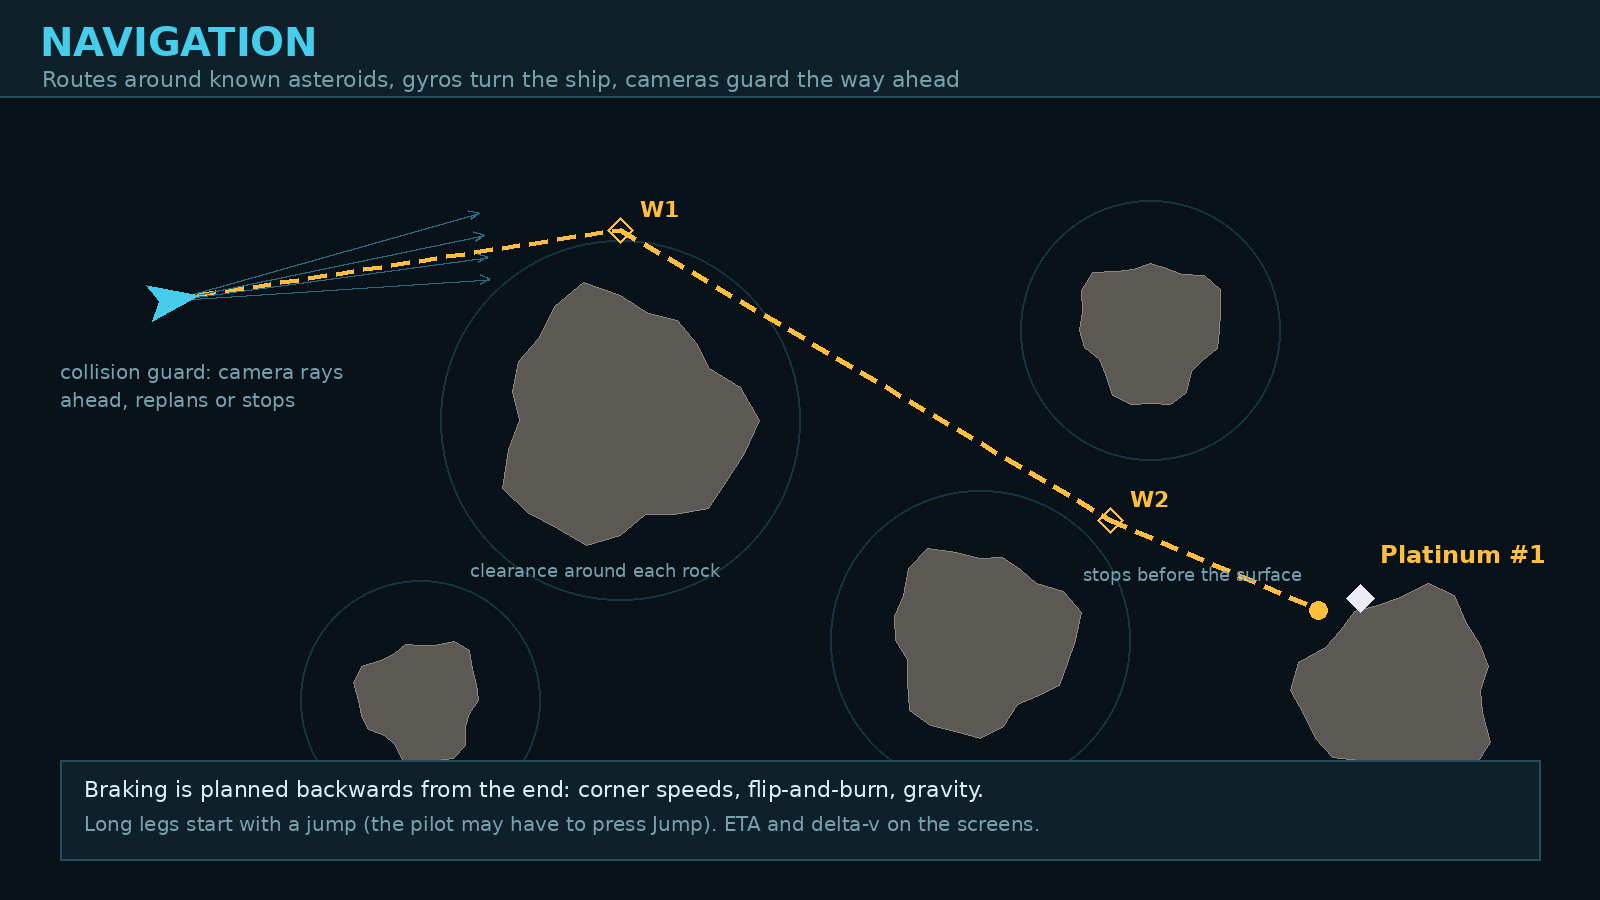
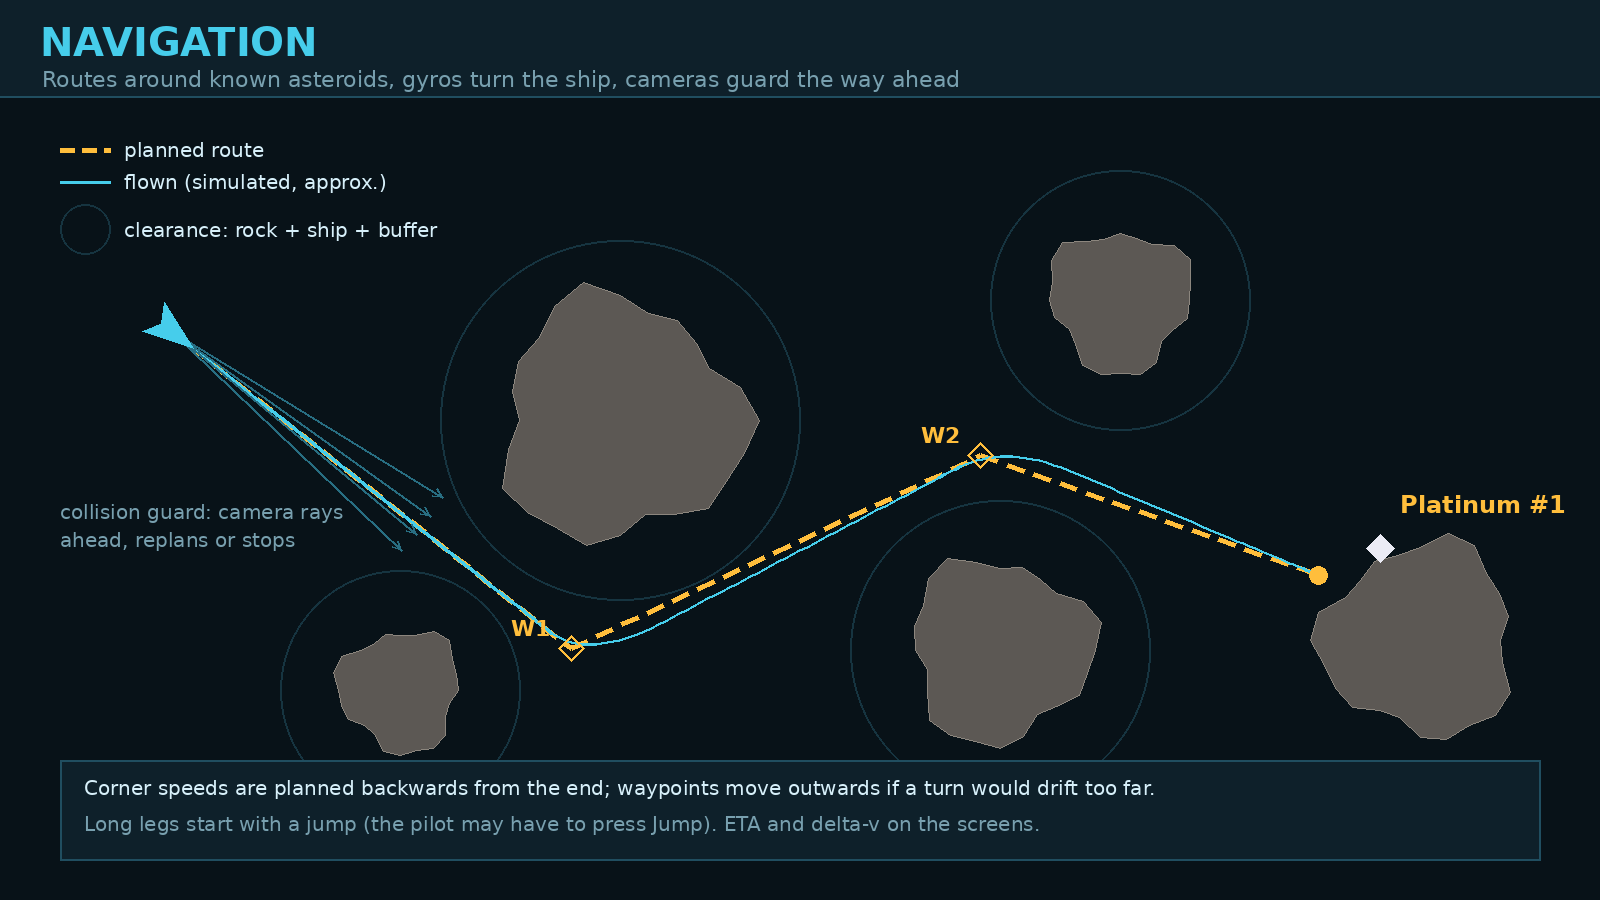
Workshop: route diagram computed with the planner
The planned route in route.png was drawn by hand and its second leg cut an
asteroid's clearance, which the planner never allows. The route is now
computed with a 2D copy of the planner (split legs at detour points until no
clearance is cut), and a simple simulation adds the approximately flown line.

Claude-Session: https://claude.ai/code/session_015uX8FGzPoM4tSbL5yWywWf

diff --git a/workshop/diagrams.py b/workshop/diagrams.py
@@ -124,42 +124,145 @@ def accel():
     img.save(os.path.join(OUT, "accel.png"))
 
 
+# 2D copy of the script's planner (Navigation.cs: PlanSegment, BlockingObstacle,
+# DetourPoint): a leg that cuts an obstacle's clearance is split at a point
+# DetourFactor x clearance beside the obstacle, and both halves are checked again.
+DETOUR_FACTOR = 1.3
+
+
+def seg_distance(c, a, b):
+    ax, ay = b[0] - a[0], b[1] - a[1]
+    t = max(0.0, min(1.0, ((c[0] - a[0]) * ax + (c[1] - a[1]) * ay) / (ax * ax + ay * ay)))
+    return math.dist(c, (a[0] + ax * t, a[1] + ay * t)), t
+
+
+def blocking(obstacles, a, b, skip_a, skip_b):
+    first, best = None, 1e18
+    for c, clearance in obstacles:
+        if skip_a and math.dist(a, c) < clearance or skip_b and math.dist(b, c) < clearance:
+            continue
+        if seg_distance(c, a, b)[0] >= clearance:
+            continue
+        if math.dist(a, c) < best:
+            first, best = (c, clearance), math.dist(a, c)
+    return first
+
+
+def detour_point(obstacles, o, a, b):
+    c, clearance = o
+    _, t = seg_distance(c, a, b)
+    px, py = a[0] + (b[0] - a[0]) * t - c[0], a[1] + (b[1] - a[1]) * t - c[1]
+    n = math.hypot(px, py) or 1
+    ox, oy = px / n, py / n
+    scale = DETOUR_FACTOR
+    while scale < DETOUR_FACTOR * 3:
+        for sx in (1, -1):         # in 2D: the side the path passes, then the other
+            q = (c[0] + sx * ox * clearance * scale, c[1] + sx * oy * clearance * scale)
+            if all(math.dist(q, c2) >= r2 for c2, r2 in obstacles):
+                return q
+        scale *= 1.6
+    return (c[0] + ox * clearance * DETOUR_FACTOR, c[1] + oy * clearance * DETOUR_FACTOR)
+
+
+def plan(obstacles, a, b, route, depth=0, at_start=True, at_target=True):
+    o = blocking(obstacles, a, b, at_start, at_target)
+    if o is None or depth >= 6:
+        return
+    q = detour_point(obstacles, o, a, b)
+    plan(obstacles, a, q, route, depth + 1, at_start, False)
+    route.append(q)
+    plan(obstacles, q, b, route, depth + 1, False, at_target)
+
+
+def fly(points, vmax=8.0, accel=0.35):
+    """Rough point-mass flight. Corner speeds are planned backwards from the end
+    (like PlanCornerSpeeds, turn factor cos^2); a waypoint counts as reached
+    within 25 px or after crossing the bisector plane (like WaypointReached)."""
+    n = len(points)
+    corner = [0.0] * n
+    for k in range(n - 2, 0, -1):
+        a, w, b = points[k - 1], points[k], points[k + 1]
+        u = (w[0] - a[0], w[1] - a[1])
+        v = (b[0] - w[0], b[1] - w[1])
+        cos = (u[0] * v[0] + u[1] * v[1]) / (math.hypot(*u) * math.hypot(*v))
+        corner[k] = min(vmax * max(0.1, cos) ** 2, math.sqrt(corner[k + 1] ** 2 + 2 * accel * math.dist(w, b)))
+    pos, vel, i, track = list(points[0]), [0.0, 0.0], 1, []
+    for _ in range(40000):
+        track.append(tuple(pos))
+        target = points[i]
+        if i < n - 1:
+            a, b = points[i - 1], points[i + 1]
+            ux, uy = target[0] - a[0], target[1] - a[1]
+            vx, vy = b[0] - target[0], b[1] - target[1]
+            nu, nv = math.hypot(ux, uy), math.hypot(vx, vy)
+            bis = (ux / nu + vx / nv, uy / nu + vy / nv)
+            if math.dist(pos, target) < 25 or (pos[0] - target[0]) * bis[0] + (pos[1] - target[1]) * bis[1] > 0:
+                i += 1
+                continue
+        dist = math.dist(pos, target)
+        if i == n - 1 and dist < 1 and math.hypot(*vel) < 0.2:
+            break
+        speed = min(vmax, math.sqrt(corner[i] ** 2 + 2 * accel * 0.8 * dist))
+        dn = dist or 1
+        want = ((target[0] - pos[0]) / dn * speed, (target[1] - pos[1]) / dn * speed)
+        ex, ey = want[0] - vel[0], want[1] - vel[1]
+        en = math.hypot(ex, ey)
+        if en > accel:
+            ex, ey = ex / en * accel, ey / en * accel
+        vel = [vel[0] + ex, vel[1] + ey]
+        pos = [pos[0] + vel[0], pos[1] + vel[1]]
+    return track
+
+
 def route():
     img, d = canvas("NAVIGATION", "Routes around known asteroids, gyros turn the ship, cameras guard the way ahead")
-    rocks = [((620, 420), 120, 1), ((980, 640), 90, 2), ((1150, 330), 70, 3), ((420, 700), 60, 4)]
+    rocks = [((620, 420), 120, 1), ((1000, 650), 90, 2), ((1120, 300), 70, 3), ((400, 690), 60, 4)]
+    obstacles = []
     for (cx, cy), r, s in rocks:
-        margin = r + 60
-        d.ellipse([cx - margin, cy - margin, cx + margin, cy + margin], outline=FAINT, width=2)
+        clearance = r + 60
+        obstacles.append(((cx, cy), clearance))
+        d.ellipse([cx - clearance, cy - clearance, cx + clearance, cy + clearance], outline=FAINT, width=2)
         rock(d, cx, cy, r, s)
     # target asteroid with deposit
-    tx, ty, tr = 1400, 690, 95
+    tx, ty, tr = 1420, 640, 95
     rock(d, tx, ty, tr, 5)
     d.polygon([(tx - 40, ty - 106), (tx - 26, ty - 92), (tx - 40, ty - 78), (tx - 54, ty - 92)], fill=(235, 235, 245))
     label(d, tx - 20, ty - 150, "Platinum #1", ROUTE, 24, True)
-    start = (170, 300)
-    w1 = (620, 230)
-    w2 = (1110, 520)
-    stop = (1318, 610)
-    pts = [start, w1, w2, stop]
+    start = (170, 330)
+    stop = (1318, 575)
+    obstacles.append(((tx, ty), tr + 60))
+    waypoints = []
+    plan(obstacles, start, stop, waypoints)
+    pts = [start] + waypoints + [stop]
     for a, b in zip(pts, pts[1:]):
         dashed(d, a, b, ROUTE, 5, 18, 10)
-    for i, (wx, wy) in enumerate((w1, w2)):
+    track = fly(pts)
+    d.line(track, fill=CYAN, width=3)
+    for i, (wx, wy) in enumerate(waypoints):
         d.polygon([(wx, wy - 13), (wx + 13, wy), (wx, wy + 13), (wx - 13, wy)], outline=ROUTE, width=3)
-        label(d, wx + 20, wy - 34, "W%d" % (i + 1), ROUTE, 22, True)
+        label(d, wx - 20, wy - 34, "W%d" % (i + 1), ROUTE, 22, True, "ra")
     d.ellipse([stop[0] - 9, stop[1] - 9, stop[0] + 9, stop[1] + 9], fill=ROUTE)
-    label(d, stop[0] - 16, stop[1] - 46, "stops before the surface", DIM, 18, anchor="ra")
-    ang = math.atan2(w1[1] - start[1], w1[0] - start[0])
+    ang = math.atan2(pts[1][1] - start[1], pts[1][0] - start[0])
     # guard rays
     for k in (-0.12, -0.05, 0.02, 0.09):
         a2 = ang + k
         arrow(d, start, (start[0] + 320 * math.cos(a2), start[1] + 320 * math.sin(a2)), (40, 110, 130), 2, 10)
     ship(d, start[0], start[1], ang, 30)
-    label(d, 60, 360, "collision guard: camera rays", DIM, 20)
-    label(d, 60, 388, "ahead, replans or stops", DIM, 20)
-    label(d, 470, 560, "clearance around each rock", DIM, 18)
+    lx, ly = 1120, 470
+    for i, (col, dash, text) in enumerate(((ROUTE, True, "planned route"), (CYAN, False, "flown (simulated, approx.)"))):
+        yy = 150 + i * 32
+        if dash:
+            dashed(d, (60, yy), (110, yy), col, 5, 14, 8)
+        else:
+            d.line([(60, yy), (110, yy)], fill=col, width=3)
+        label(d, 124, yy - 12, text, TEXT, 20)
+    d.ellipse([60, 204, 110, 254], outline=FAINT, width=2)
+    label(d, 124, 218, "clearance: rock + ship + buffer", TEXT, 20)
+    label(d, 60, 500, "collision guard: camera rays", DIM, 20)
+    label(d, 60, 528, "ahead, replans or stops", DIM, 20)
     box = [60, 760, 1540, 860]
     d.rectangle(box, fill=PANEL, outline=GRID, width=2)
-    label(d, 84, 776, "Braking is planned backwards from the end: corner speeds, flip-and-burn, gravity.", TEXT, 22)
+    label(d, 84, 776, "Corner speeds are planned backwards from the end; waypoints move outwards if a turn would drift too far.", TEXT, 20)
     label(d, 84, 812, "Long legs start with a jump (the pilot may have to press Jump). ETA and delta-v on the screens.", DIM, 20)
     img.save(os.path.join(OUT, "route.png"))
 

diff --git a/workshop/README.md b/workshop/README.md
@@ -10,6 +10,9 @@ Material for the Steam Workshop items.
   - `map.png` (map screens) and `status.png` (status page) are mock-ups of the
     script's screens; the in-game look differs in details.
   - `accel.png`, `route.png`, `docking.png`, `planet.png` are explanatory diagrams.
+    `route.png` is computed: a 2D copy of the script's route planner places the
+    waypoints, and a simple point-mass simulation (corner speeds planned
+    backwards, waypoint switching as in the script) draws the flown line.
 - `map_mockup.py`, `status_mockup.py`, `diagrams.py` regenerate the images
   (`python3 workshop/<name>.py`, needs Pillow and the DejaVu fonts).
 
